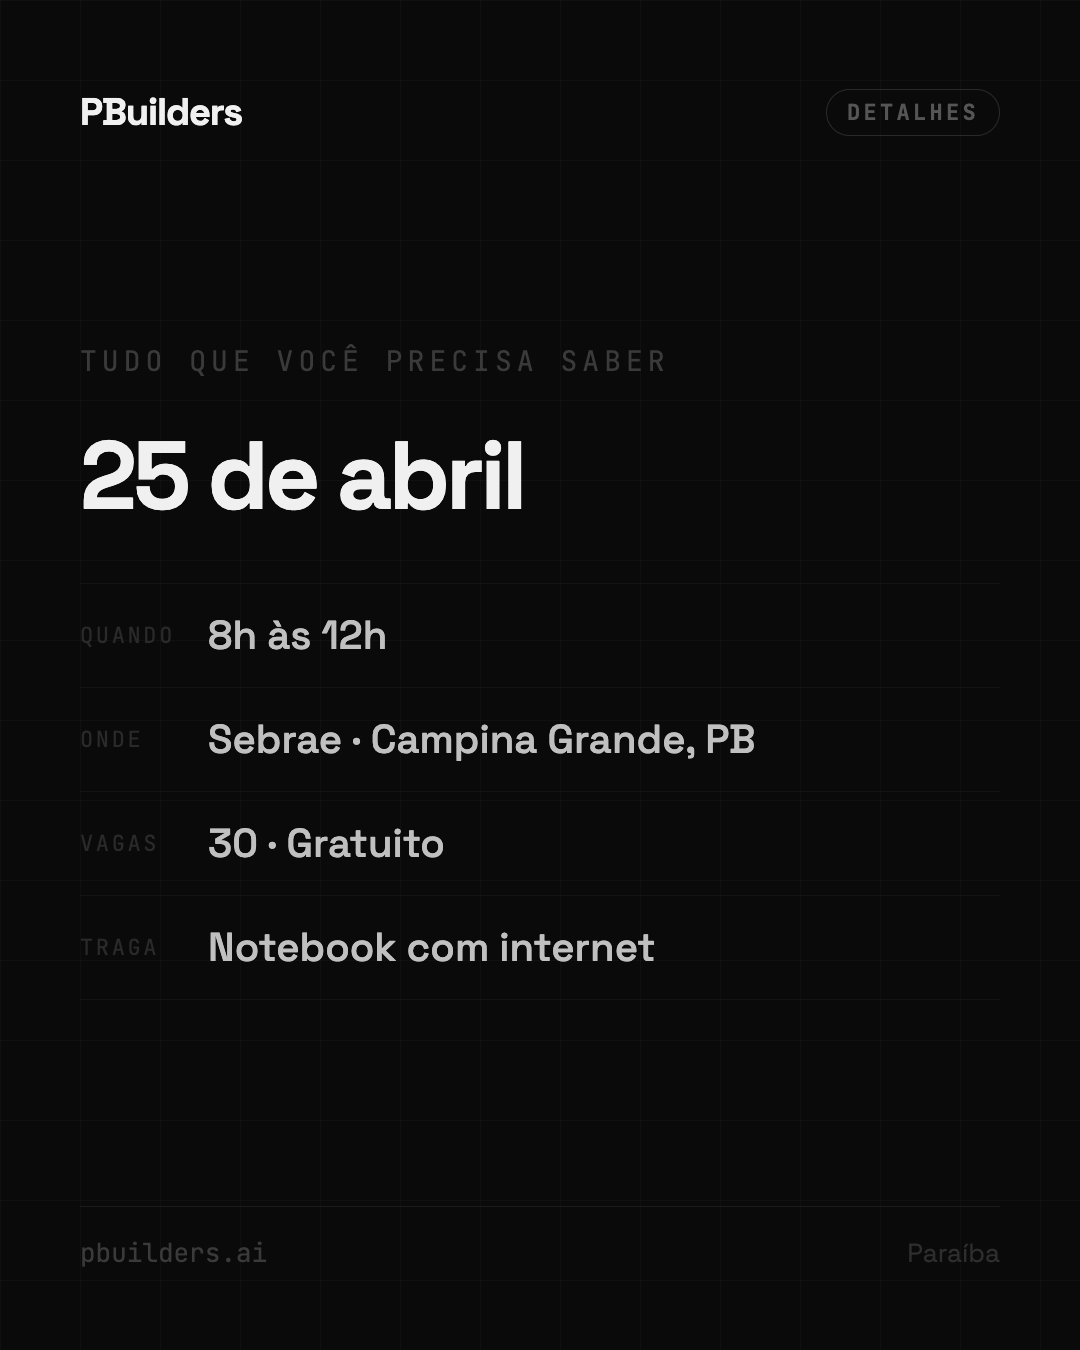
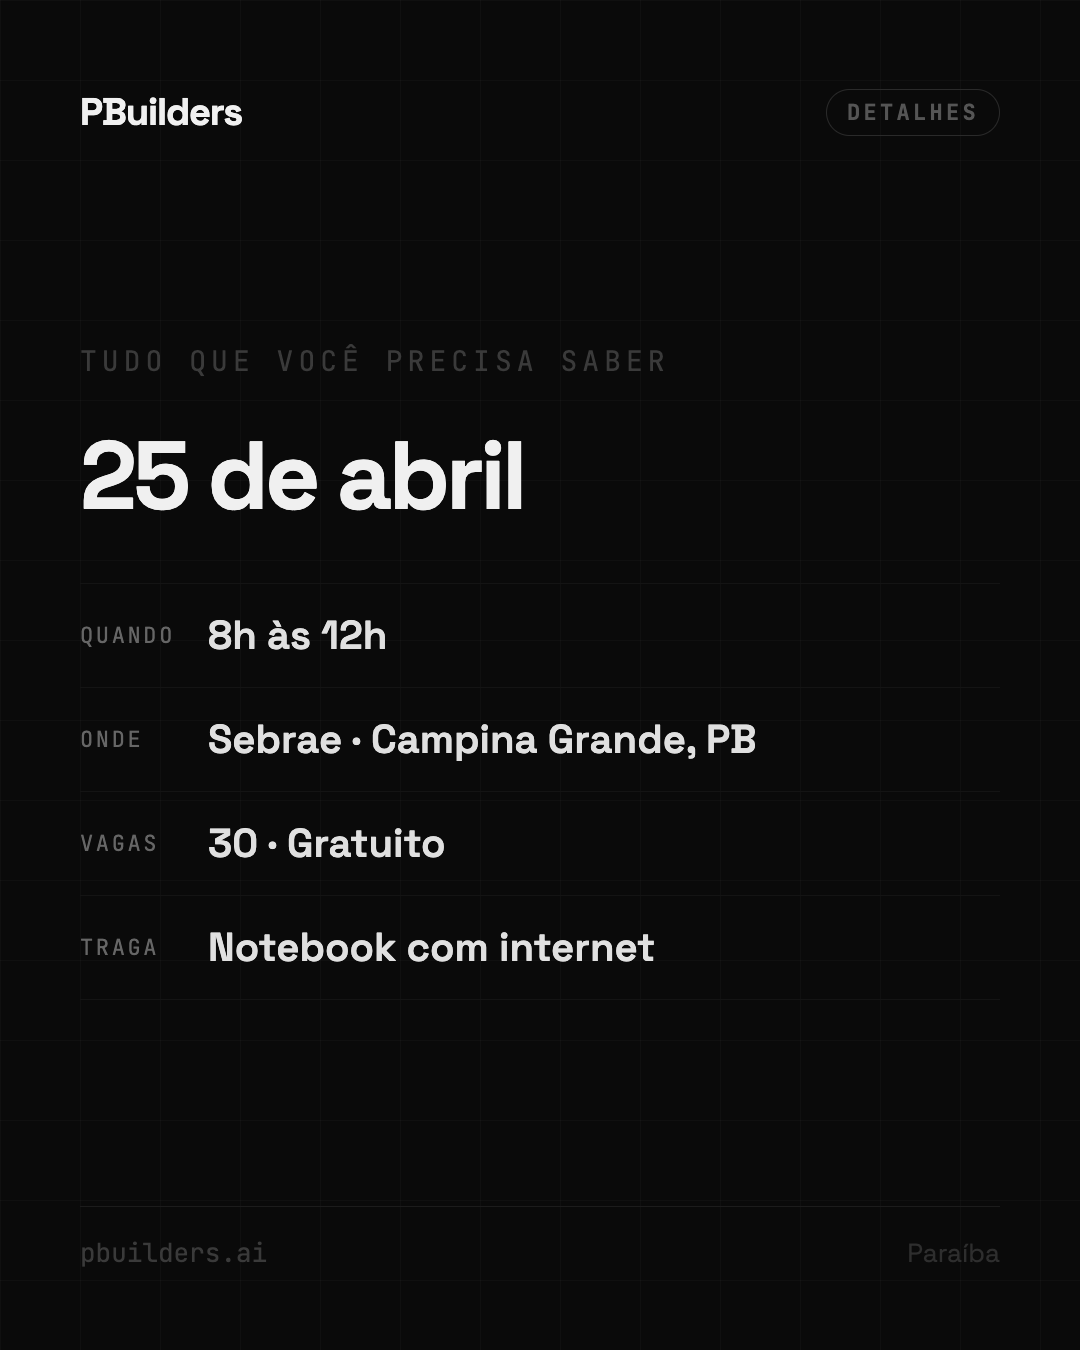
carrossel slide detalhes: aumentar contraste das labels e valores
Labels: #2A2A2A → #666 / Valores: weight 500 #C0C0C0 → weight 600 #E0E0E0

diff --git a/content/2026-04-17-primeiro-encontro/instagram-carousel.html b/content/2026-04-17-primeiro-encontro/instagram-carousel.html
@@ -378,7 +378,7 @@
     #s6 .info-label {
       font-family: 'JetBrains Mono', monospace;
       font-size: 22px;
-      color: #2A2A2A;
+      color: #666;
       text-transform: uppercase;
       letter-spacing: 0.12em;
       min-width: 100px;
@@ -386,8 +386,8 @@
 
     #s6 .info-value {
       font-size: 40px;
-      font-weight: 500;
-      color: #C0C0C0;
+      font-weight: 600;
+      color: #E0E0E0;
     }
 
     #s6 .apoio {
